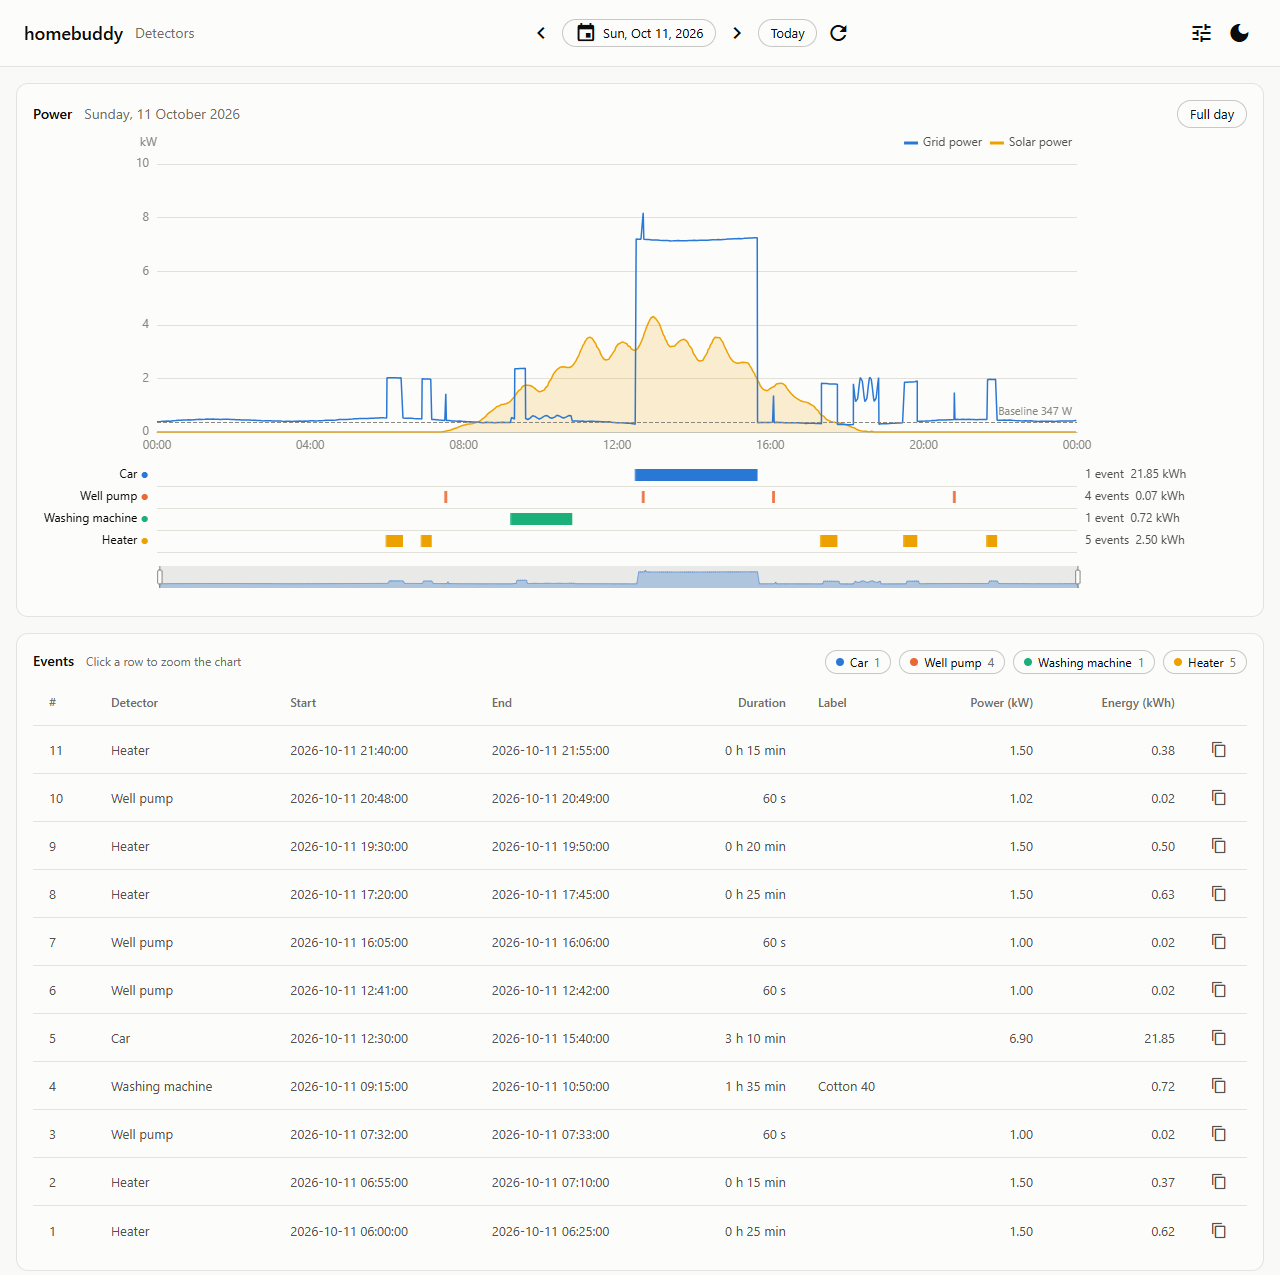
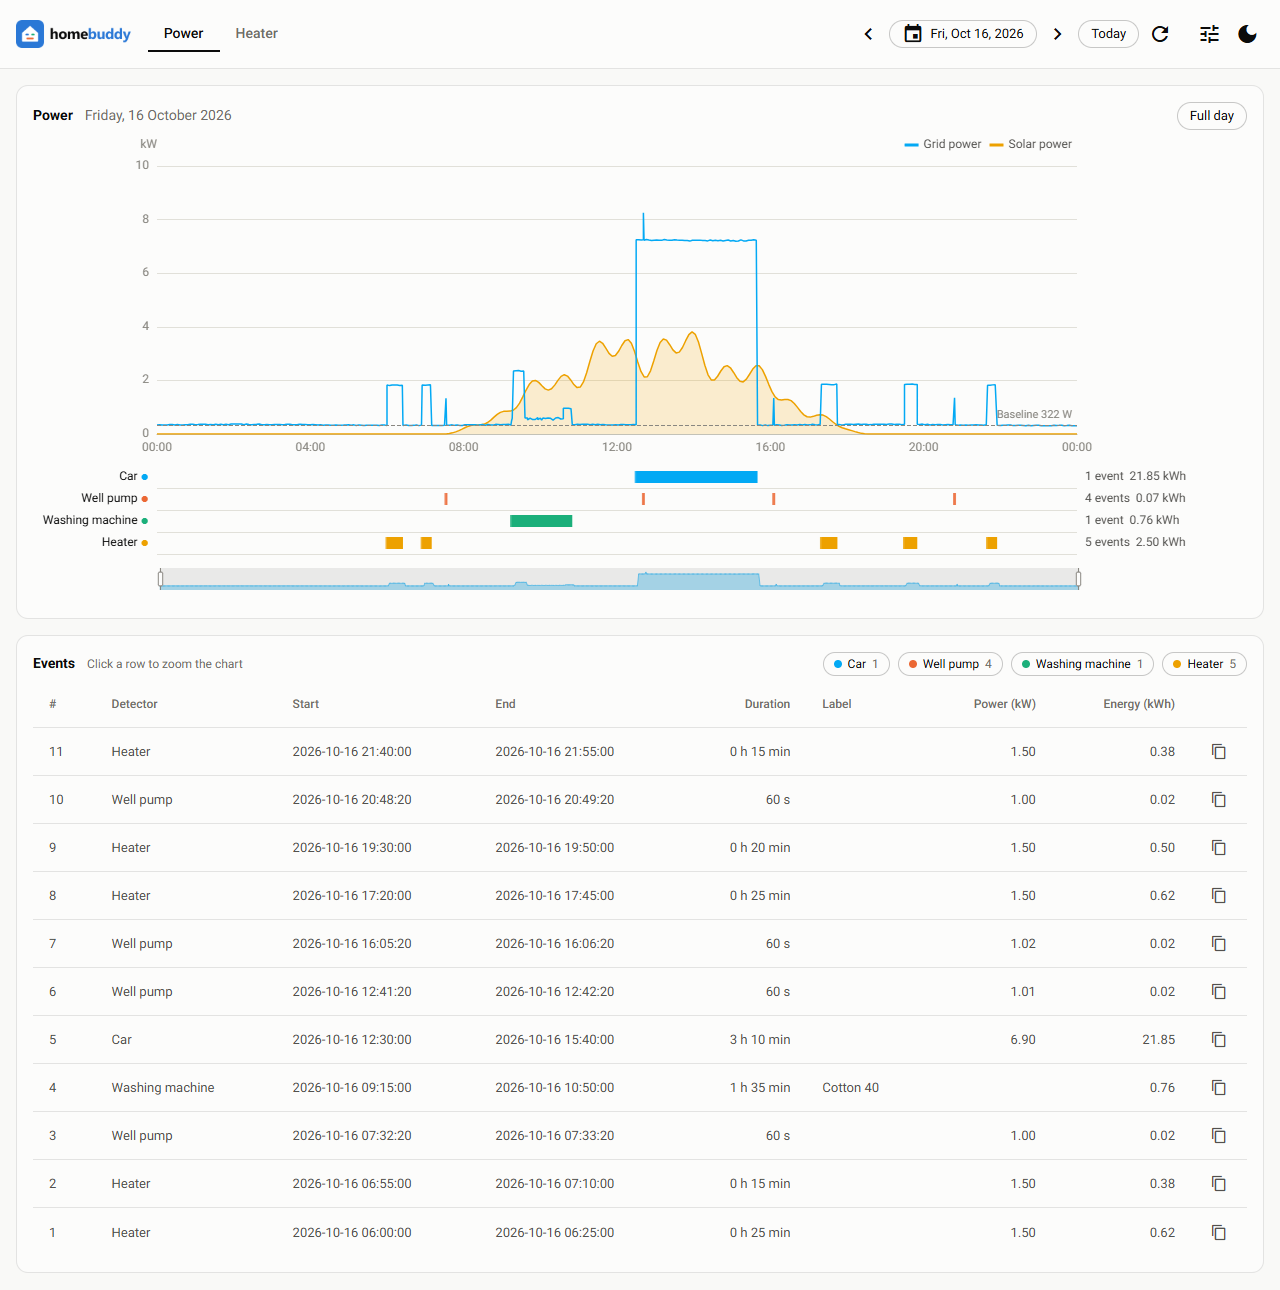
feat: use the font and the colors of Home Assistant

diff --git a/tests/test_ui.py b/tests/test_ui.py
@@ -110,7 +110,7 @@ def test_chart_options(charge_w: float) -> None:
     assert [line['name'] for line in series['markLine']['data']] == ['Baseline 500 W']
     # One lane for each detector of the sensor. The first detector has the color of the line.
     assert options['yAxis'][1]['data'] == ['ev']
-    assert lane(options, 'ev') == ('#2a78d6', [('2026-09-13 13:50:00', '2026-09-13 14:50:00')])
+    assert lane(options, 'ev') == ('#03a9f4', [('2026-09-13 13:50:00', '2026-09-13 14:50:00')])
     assert chart_height(result) == 384 + 22
 
 
@@ -159,7 +159,7 @@ def test_chart_options_has_a_line_for_each_sensor_of_the_tab(charge_w: float) ->
     # Each line has the name of its sensor and its color. The lanes are after the lines.
     names = ['sensor.p', 'Solar', 'sensor.solar']
     assert [(s['name'], s['lineStyle']['color']) for s in options['series'][:3]] == list(
-        zip(names, ['#2a78d6', '#eda100', '#1baf7a'], strict=True)
+        zip(names, ['#03a9f4', '#eda100', '#1baf7a'], strict=True)
     )
     assert (options['legend']['show'], options['legend']['data']) == (True, names)
     assert options['series'][1]['data'][1] == ['2026-09-13 13:00:00', 1.5]
@@ -171,8 +171,10 @@ def test_chart_options_has_a_line_for_each_sensor_of_the_tab(charge_w: float) ->
 
 def test_chart_options_theme(charge_w: float) -> None:
     result = make_result(charge_w)
-    assert chart_options(result, DATE_FORMAT)['series'][0]['lineStyle']['color'] == '#2a78d6'
-    assert chart_options(result, DATE_FORMAT, dark=True)['series'][0]['lineStyle']['color'] == '#3987e5'
+    light, dark = chart_options(result, DATE_FORMAT), chart_options(result, DATE_FORMAT, dark=True)
+    # The line has the primary color of Home Assistant in the two themes. The tooltip has the color of the theme.
+    assert light['series'][0]['lineStyle']['color'] == dark['series'][0]['lineStyle']['color'] == '#03a9f4'
+    assert (light['tooltip']['backgroundColor'], dark['tooltip']['backgroundColor']) == ('#fcfcfb', '#1c1c1c')
 
 
 def make_pump_result(charge_w: float) -> SearchResult:
@@ -605,7 +607,7 @@ async def test_page_has_a_tab_for_each_result(
         await asyncio.sleep(0.2)
         assert user.find(ui.echart).elements == {chart}
         user.find(marker='theme').click()
-        assert chart.options['series'][0]['lineStyle']['color'] == '#3987e5'
+        assert chart.options['series'][0]['lineStyle']['color'] == '#03a9f4'
 
         # The selected sensor stays when the day changes.
         [date_input] = user.find(ui.date).elements
@@ -780,11 +782,11 @@ async def test_theme_switch(found: list[tuple[Any, ...]]) -> None:
         [dark] = user.find(ui.dark_mode).elements
         # Without ``theme`` in the configuration file, the page has the theme of the computer of the user.
         assert dark.value is None
-        assert chart.options['series'][0]['lineStyle']['color'] == '#2a78d6'
+        assert chart.options['series'][0]['lineStyle']['color'] == '#03a9f4'
 
         user.find(marker='theme').click()
         assert dark.value is True
-        assert chart.options['series'][0]['lineStyle']['color'] == '#3987e5'
+        assert chart.options['series'][0]['lineStyle']['color'] == '#03a9f4'
 
     assert len(found) == 1
 
@@ -797,7 +799,7 @@ async def test_theme_of_the_file(found: list[tuple[Any, ...]]) -> None:
         [chart] = user.find(ui.echart).elements
         [dark] = user.find(ui.dark_mode).elements
         assert dark.value is True
-        assert chart.options['series'][0]['lineStyle']['color'] == '#3987e5'
+        assert chart.options['series'][0]['lineStyle']['color'] == '#03a9f4'
 
         user.find(marker='theme').click()
         assert dark.value is False

diff --git a/homebuddy/ui/theme.py b/homebuddy/ui/theme.py
@@ -4,12 +4,15 @@ from __future__ import annotations
 
 from typing import Any
 
-PRIMARY = '#2a78d6'
-FONT = 'system-ui, -apple-system, "Segoe UI", sans-serif'
+# The primary color and the font of Home Assistant. The primary color is the same in the two themes. NiceGUI
+# serves Roboto.
+PRIMARY = '#03a9f4'
+FONT = 'Roboto, system-ui, sans-serif'
 # The media query of a narrow screen, for example a phone. The CSS and the chart use it.
 NARROW = '(max-width: 599px)'
 # The ECharts element does not follow the dark mode of the page, so the chart gets its colors here.
-# Keep them equal to the CSS variables in PAGE_CSS. False is the light theme, True is the dark theme.
+# The CSS variables of the surface, the ink and the secondary text come from here. False is the light theme, True is
+# the dark theme.
 CHART_COLORS: dict[bool, dict[str, Any]] = {
     False: {
         'series': PRIMARY,
@@ -26,34 +29,29 @@ CHART_COLORS: dict[bool, dict[str, Any]] = {
         'axis': '#c3c2b7',
     },
     True: {
-        'series': '#3987e5',
-        'detectors': ('#3987e5', '#d95926', '#199e70', '#c98500'),
+        'series': PRIMARY,
+        'detectors': (PRIMARY, '#d95926', '#199e70', '#c98500'),
         'lines': ('#c98500', '#199e70', '#d95926'),
-        'surface': '#1a1a19',
-        'ink': '#e6e5e0',
-        'secondary': '#c3c2b7',
-        'muted': '#898781',
-        'grid': '#2c2c2a',
-        'axis': '#383835',
+        # The neutral grays of the dark theme of Home Assistant
+        'surface': '#1c1c1c',
+        'ink': '#e1e1e1',
+        'secondary': '#9b9b9b',
+        'muted': '#9b9b9b',
+        'grid': '#2c2c2c',
+        'axis': '#383838',
     },
 }
 PAGE_CSS = """
 :root {
     --hb-plane: #f9f9f7;
-    --hb-surface: #fcfcfb;
-    --hb-ink: #0b0b0b;
     --hb-muted: #6f6d68;
-    --hb-secondary: #52514e;
     --hb-border: rgba(11, 11, 11, 0.10);
     --hb-control-border: rgba(11, 11, 11, 0.22);
     --hb-hover: rgba(11, 11, 11, 0.04);
 }
 body.body--dark {
-    --hb-plane: #0d0d0d;
-    --hb-surface: #1a1a19;
-    --hb-ink: #e6e5e0;
-    --hb-muted: #a3a29b;
-    --hb-secondary: #c3c2b7;
+    --hb-plane: #111111;
+    --hb-muted: #9b9b9b;
     --hb-border: rgba(255, 255, 255, 0.10);
     --hb-control-border: rgba(255, 255, 255, 0.22);
     --hb-hover: rgba(255, 255, 255, 0.05);
@@ -61,7 +59,6 @@ body.body--dark {
 body {
     background: var(--hb-plane) !important;
     color: var(--hb-ink) !important;
-    font-family: system-ui, -apple-system, "Segoe UI", sans-serif;
 }
 .hb-header {
     background: var(--hb-surface) !important;
@@ -136,7 +133,11 @@ PAGE_CSS += f"""
     .hb-card {{ padding: 12px 8px !important; }}
 }}
 """
-# The color of the detector at each position, as CSS variables, so an element follows the theme of the page.
+PAGE_CSS += f'body {{ font-family: {FONT}; }}\n'
+# The colors of the chart and the color of the detector at each position, as CSS variables, so an element follows
+# the theme of the page.
 for _dark, _selector in ((False, ':root'), (True, 'body.body--dark')):
-    _colors = ' '.join(f'--hb-detector-{i}: {color};' for i, color in enumerate(CHART_COLORS[_dark]['detectors']))
+    _theme = CHART_COLORS[_dark]
+    _colors = ' '.join(f'--hb-{name}: {_theme[name]};' for name in ('surface', 'ink', 'secondary'))
+    _colors += ' ' + ' '.join(f'--hb-detector-{i}: {color};' for i, color in enumerate(_theme['detectors']))
     PAGE_CSS += f'{_selector} {{ {_colors} }}\n'

diff --git a/docs/page.md b/docs/page.md
@@ -140,6 +140,9 @@ The page uses the theme of your computer. Set `theme` in the configuration file 
 one theme. The button at the top right changes the theme. The page does not keep this selection when you load
 it again.
 
+The page has the look of Home Assistant: the Roboto font, the primary color `#03a9f4` in the two themes, and
+the neutral grays of the dark theme of Home Assistant.
+
 ## Install the page on a phone
 
 On a phone, you can install the page as an app. The page must use HTTPS with a certificate that the phone
